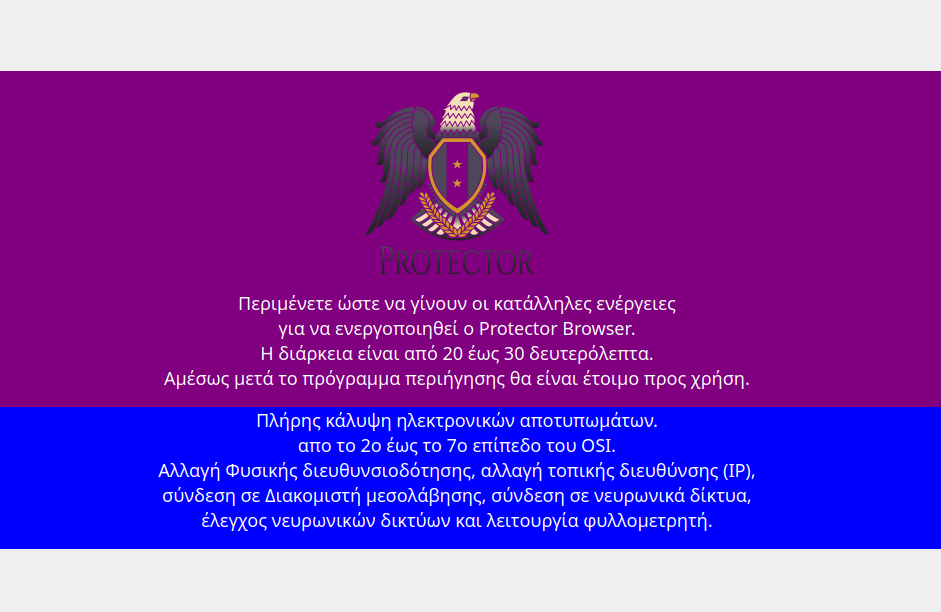
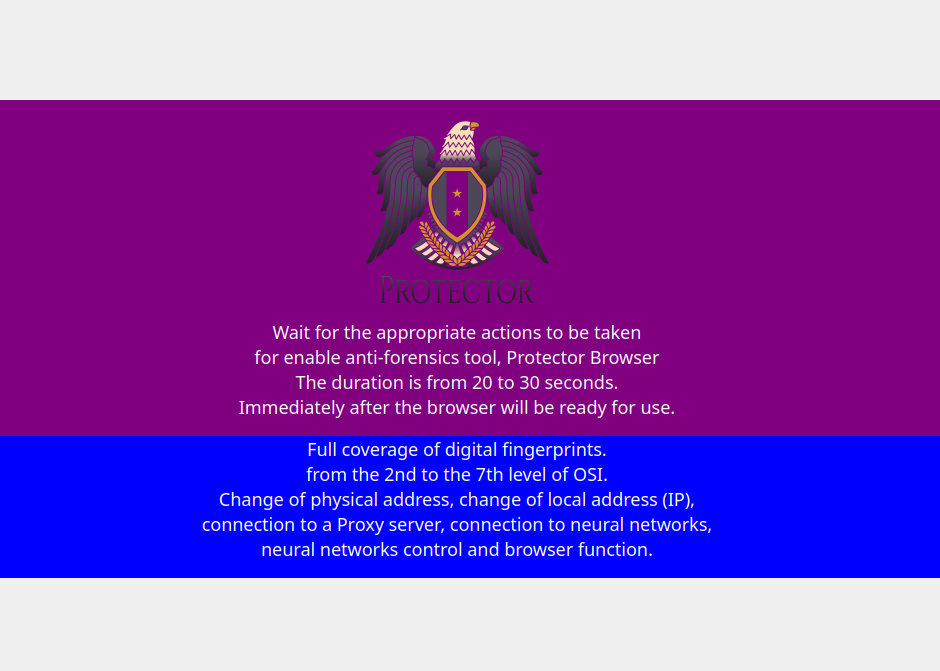
Add files via upload

Changed region(s): [[0.0, 0.0931, 1.0, 0.9003]]

diff --git a/progr.py b/progr.py
@@ -35,20 +35,20 @@ if __name__ == '__main__':
                   <br>  
                  <img src=/opt/protector/prot.png height=200 width=200> <br>
              <font color=white size=5>
-                 Περιμένετε ώστε να γίνουν οι κατάλληλες ενέργειες <br>
-                 για να ενεργοποιηθεί ο Protector Browser. <br>
-                 Η διάρκεια είναι από 20 έως 30 δευτερόλεπτα. <br>
-                 Αμέσως μετά το πρόγραμμα περιήγησης θα είναι έτοιμο προς χρήση. <br> 
+                  Wait for the appropriate actions to be taken <br>
+                  for enable anti-forensics tool, Protector Browser  <br>
+                  The duration is from 20 to 30 seconds. <br>
+                  Immediately after the browser will be ready for use. <br> 
             </font>
                  </div>
 
              <div align=center style=background:blue> 
               <font color=white size=5> 
-                 Πλήρης κάλυψη ηλεκτρονικών αποτυπωμάτων. <br>
-                 απο το 2ο έως το 7ο επίπεδο του OSI. <br>
-                 Αλλαγή Φυσικής διευθυνσιοδότησης, αλλαγή τοπικής διευθύνσης (IP), <br>
-                 σύνδεση σε Διακομιστή μεσολάβησης, σύνδεση σε νευρωνικά δίκτυα, <br>
-                 έλεγχος νευρωνικών δικτύων και λειτουργία φυλλομετρητή. <br>
+                  Full coverage of digital fingerprints. <br>
+                  from the 2nd to the 7th level of OSI. <br>
+                  Change of physical address, change of local address (IP), <br>
+                  connection to a Proxy server, connection to neural networks, <br>
+                  neural networks control and browser function. <br> 
             </div>""")
 
     # SplashScreen - Indicates that the window is a splash screen. This is the default type for .QSplashScreen
